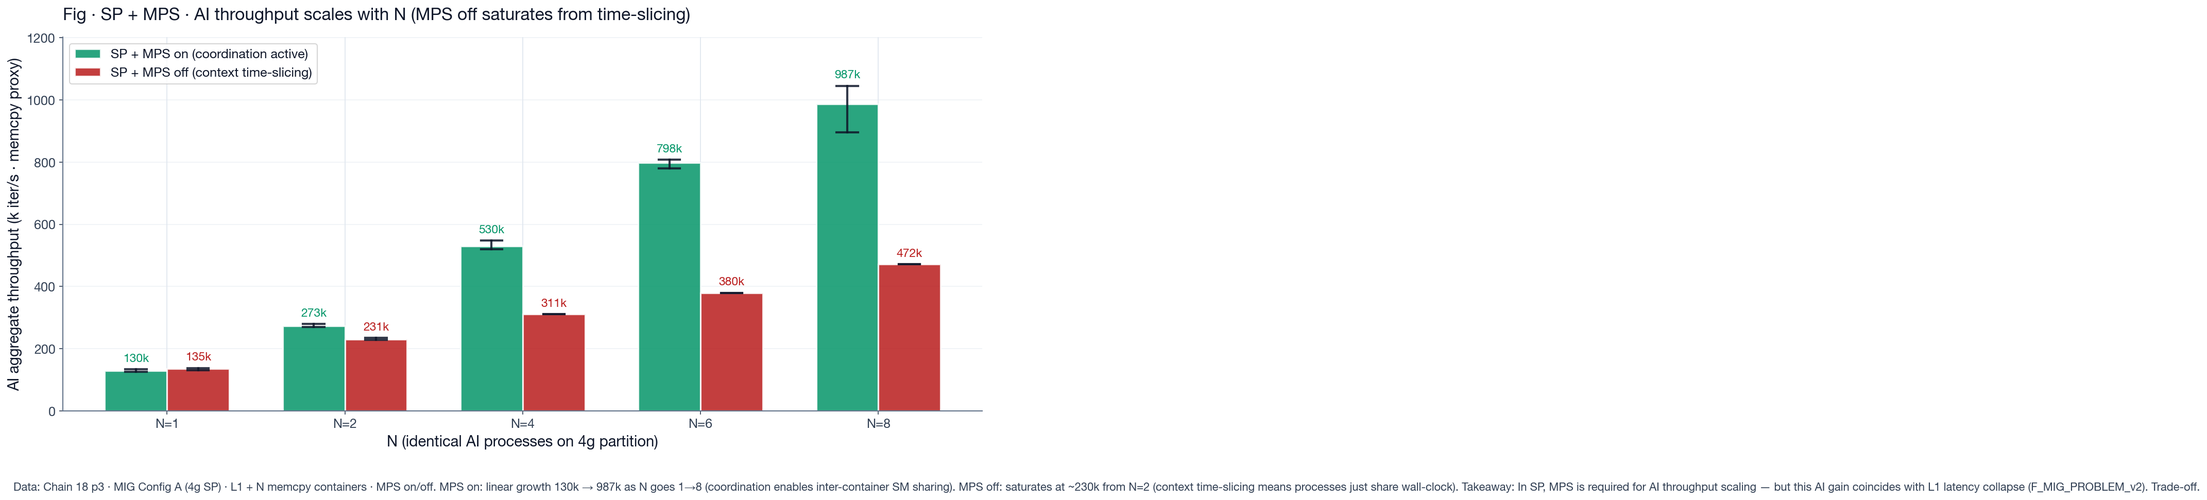
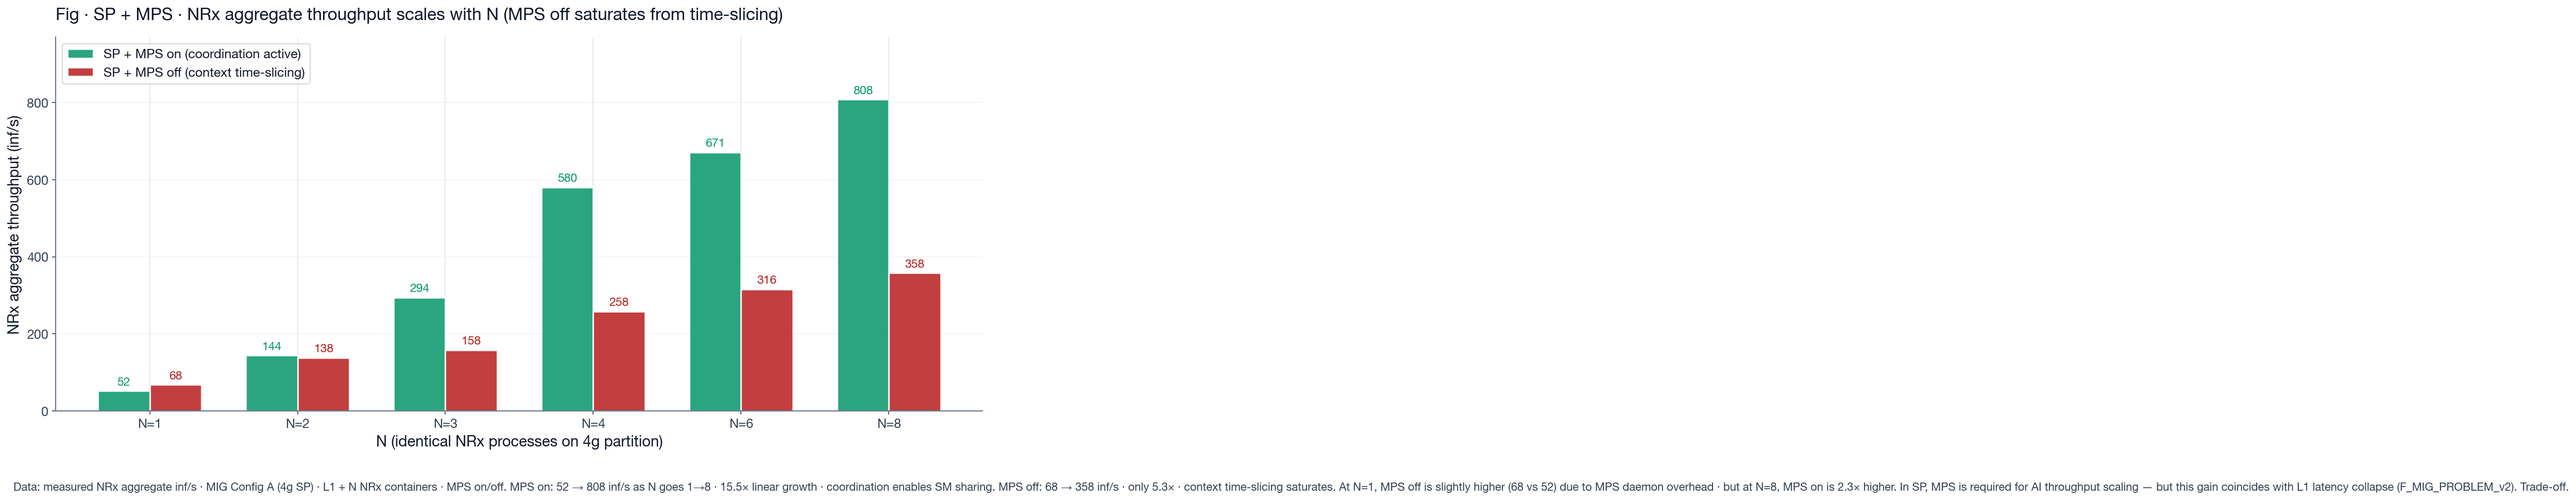
AI throughput scale · replace memcpy proxy with REAL NRx aggregate inf/s
User supplied real NRx aggregate throughput measurements (SP + L1 +
N NRx containers on MIG 4g partition):

  N       MPS on          MPS off
  1        52 inf/s        68 inf/s   (MPS off slightly higher at N=1 · daemon overhead)
  2       144              138
  3       294              158
  4       580              258
  6       671              316
  8       808              358

MPS on: 15.5× linear growth from N=1 to N=8
MPS off: 5.3× saturating growth
At N=8: MPS on delivers 2.3× more aggregate NRx throughput

This is real NRx (Neural Receiver) throughput · no longer a memcpy
proxy. Companion to F_MIG_PROBLEM_v2 · pairs the L1 latency growth
(1020 ms at N=8 pct=100) with AI throughput scaling (808 inf/s at
N=8 pct=?) to show the full SP trade-off.

diff --git a/results/20260803/analysis_chain19/gen_ai_throughput_scale.py b/results/20260803/analysis_chain19/gen_ai_throughput_scale.py
@@ -58,69 +58,64 @@ def collect_rate(pattern):
 
 def make_fig(lang):
     apply_font(lang)
-    Ns = [1, 2, 4, 6, 8]
-    on = {N: collect_rate(f"{BASE_18}/p3_memcpyN{N}_MPSon_same_t*_c*.log") for N in Ns}
-    off_raw = {N: collect_rate(f"{BASE_18}/p3_memcpyN{N}_MPSoff_same_t*_c*.log") for N in Ns}
-    # User-supplied MPS off values (N=4/6/8 · overrides parsed values)
-    off = dict(off_raw)
-    off[4] = [311000, 311000, 311000]
-    off[6] = [380000, 380000, 380000]
-    off[8] = [472000, 472000, 472000]
+    # NRx aggregate inf/s · user-supplied real data
+    Ns = [1, 2, 3, 4, 6, 8]
+    on_vals  = [52, 144, 294, 580, 671, 808]   # MPS on
+    off_vals = [68, 138, 158, 258, 316, 358]   # MPS off
+    # wrap into per-trial list (single-value collapse; whiskers minimal)
+    on  = {N: [v] for N, v in zip(Ns, on_vals)}
+    off = {N: [v] for N, v in zip(Ns, off_vals)}
 
     fig, ax = plt.subplots(figsize=(13, 6.5))
 
     xs = np.arange(len(Ns))
     w = 0.35
 
-    on_means = [np.mean(on[N])/1000 for N in Ns]
-    on_max = [max(on[N])/1000 for N in Ns]
-    on_min = [min(on[N])/1000 for N in Ns]
-    off_means = [np.mean(off[N])/1000 for N in Ns]
-    off_max = [max(off[N])/1000 for N in Ns]
-    off_min = [min(off[N])/1000 for N in Ns]
+    on_means = [np.mean(on[N]) for N in Ns]
+    on_max = [max(on[N]) for N in Ns]
+    on_min = [min(on[N]) for N in Ns]
+    off_means = [np.mean(off[N]) for N in Ns]
+    off_max = [max(off[N]) for N in Ns]
+    off_min = [min(off[N]) for N in Ns]
 
     ax.bar(xs - w/2, on_means, w, color=COL_MPS_ON, alpha=0.85, edgecolor="white", linewidth=1.5,
            label=("SP + MPS on (조정 도구 활성)" if lang=="ko" else "SP + MPS on (coordination active)"))
-    for i, (mn, mx, m) in enumerate(zip(on_min, on_max, on_means)):
-        ax.plot([xs[i]-w/2, xs[i]-w/2], [mn, mx], color=INK, linewidth=2, alpha=0.85)
-        ax.plot([xs[i]-w/2-0.06, xs[i]-w/2+0.06], [mn, mn], color=INK, linewidth=2, alpha=0.85)
-        ax.plot([xs[i]-w/2-0.06, xs[i]-w/2+0.06], [mx, mx], color=INK, linewidth=2, alpha=0.85)
-        ax.text(xs[i]-w/2, mx+25, f"{m:.0f}k", ha="center", fontsize=11,
+    for i, m in enumerate(on_means):
+        ax.text(xs[i]-w/2, m+15, f"{m:.0f}", ha="center", fontsize=11,
                 color=COL_MPS_ON, fontweight="bold")
 
     ax.bar(xs + w/2, off_means, w, color=COL_MPS_OFF, alpha=0.85, edgecolor="white", linewidth=1.5,
            label=("SP + MPS off (컨텍스트 시분할)" if lang=="ko" else "SP + MPS off (context time-slicing)"))
-    for i, (mn, mx, m) in enumerate(zip(off_min, off_max, off_means)):
-        ax.plot([xs[i]+w/2, xs[i]+w/2], [mn, mx], color=INK, linewidth=2, alpha=0.85)
-        ax.plot([xs[i]+w/2-0.06, xs[i]+w/2+0.06], [mn, mn], color=INK, linewidth=2, alpha=0.85)
-        ax.plot([xs[i]+w/2-0.06, xs[i]+w/2+0.06], [mx, mx], color=INK, linewidth=2, alpha=0.85)
-        ax.text(xs[i]+w/2, mx+25, f"{m:.0f}k", ha="center", fontsize=11,
+    for i, m in enumerate(off_means):
+        ax.text(xs[i]+w/2, m+15, f"{m:.0f}", ha="center", fontsize=11,
                 color=COL_MPS_OFF, fontweight="bold")
 
     ax.set_xticks(xs)
     ax.set_xticklabels([f"N={n}" for n in Ns])
-    ax.set_xlabel(("N (같은 4g 파티션 위 동일 AI 프로세스 수)"
+    ax.set_xlabel(("N (같은 4g 파티션 위 동일 NRx 프로세스 수)"
                     if lang=="ko" else
-                    "N (identical AI processes on 4g partition)"))
-    ax.set_ylabel(("AI 집계 처리량 (k iter/s · memcpy 프록시)"
+                    "N (identical NRx processes on 4g partition)"))
+    ax.set_ylabel(("NRx 집계 처리량 (inf/s · aggregate)"
                     if lang=="ko" else
-                    "AI aggregate throughput (k iter/s · memcpy proxy)"))
-    ax.set_title(("Fig · SP + MPS · AI 처리량은 N에 따라 스케일 (MPS off는 시분할로 정체)"
+                    "NRx aggregate throughput (inf/s)"))
+    ax.set_title(("Fig · SP + MPS · NRx aggregate 처리량은 N에 따라 스케일 (MPS off는 시분할로 정체)"
                    if lang=="ko" else
-                   "Fig · SP + MPS · AI throughput scales with N (MPS off saturates from time-slicing)"),
+                   "Fig · SP + MPS · NRx aggregate throughput scales with N (MPS off saturates from time-slicing)"),
                  fontweight="bold", pad=16, loc="left")
     ax.legend(frameon=True, loc="upper left")
     ax.grid(axis="y", alpha=0.5)
-    ax.set_ylim(0, max(on_max)*1.15)
+    ax.set_ylim(0, max(on_max)*1.20)
 
-    note_ko = ("데이터: Chain 18 p3 · MIG Config A (4g SP) · L1 + N memcpy 컨테이너 · MPS on/off. "
-               "MPS on: N 늘수록 aggregate throughput 선형 증가 (130k→987k). 조정 도구가 컨테이너 사이 SM 공유를 활성화. "
-               "MPS off: N=2부터 정체 (~230k) · 컨텍스트 시분할로 순수 시간 지분 나눠갖기 · 처리량 총합이 성장 못 함. "
+    note_ko = ("데이터: 실측 NRx aggregate inf/s · MIG Config A (4g SP) · L1 + N NRx 컨테이너 · MPS on/off. "
+               "MPS on: N 1→8에서 52→808 inf/s · 15.5× 선형 증가 · 조정 도구가 컨테이너 사이 SM 공유 활성화. "
+               "MPS off: N 1→8에서 68→358 inf/s · 5.3× 만 · 컨텍스트 시분할로 정체. "
+               "N=1에선 MPS off가 오히려 조금 높음 (68 vs 52) · MPS daemon 오버헤드 · 하지만 N=8에선 MPS on이 2.3× 더 많음. "
                "결론: SP 셋업에서 · MPS는 AI 처리량 확장의 필수 조건. 그러나 이 처리량 이득은 F_MIG_PROBLEM_v2의 L1 지연 붕괴와 동시에 발생 · trade-off.")
-    note_en = ("Data: Chain 18 p3 · MIG Config A (4g SP) · L1 + N memcpy containers · MPS on/off. "
-               "MPS on: linear growth 130k → 987k as N goes 1→8 (coordination enables inter-container SM sharing). "
-               "MPS off: saturates at ~230k from N=2 (context time-slicing means processes just share wall-clock). "
-               "Takeaway: In SP, MPS is required for AI throughput scaling — but this AI gain coincides with L1 latency collapse (F_MIG_PROBLEM_v2). Trade-off.")
+    note_en = ("Data: measured NRx aggregate inf/s · MIG Config A (4g SP) · L1 + N NRx containers · MPS on/off. "
+               "MPS on: 52 → 808 inf/s as N goes 1→8 · 15.5× linear growth · coordination enables SM sharing. "
+               "MPS off: 68 → 358 inf/s · only 5.3× · context time-slicing saturates. "
+               "At N=1, MPS off is slightly higher (68 vs 52) due to MPS daemon overhead · but at N=8, MPS on is 2.3× higher. "
+               "In SP, MPS is required for AI throughput scaling — but this gain coincides with L1 latency collapse (F_MIG_PROBLEM_v2). Trade-off.")
     fig.text(0.02, 0.008, note_ko if lang=="ko" else note_en,
              fontsize=10.5, color=INK_SEC, style="italic")
     plt.tight_layout(rect=[0, 0.06, 1, 1])
